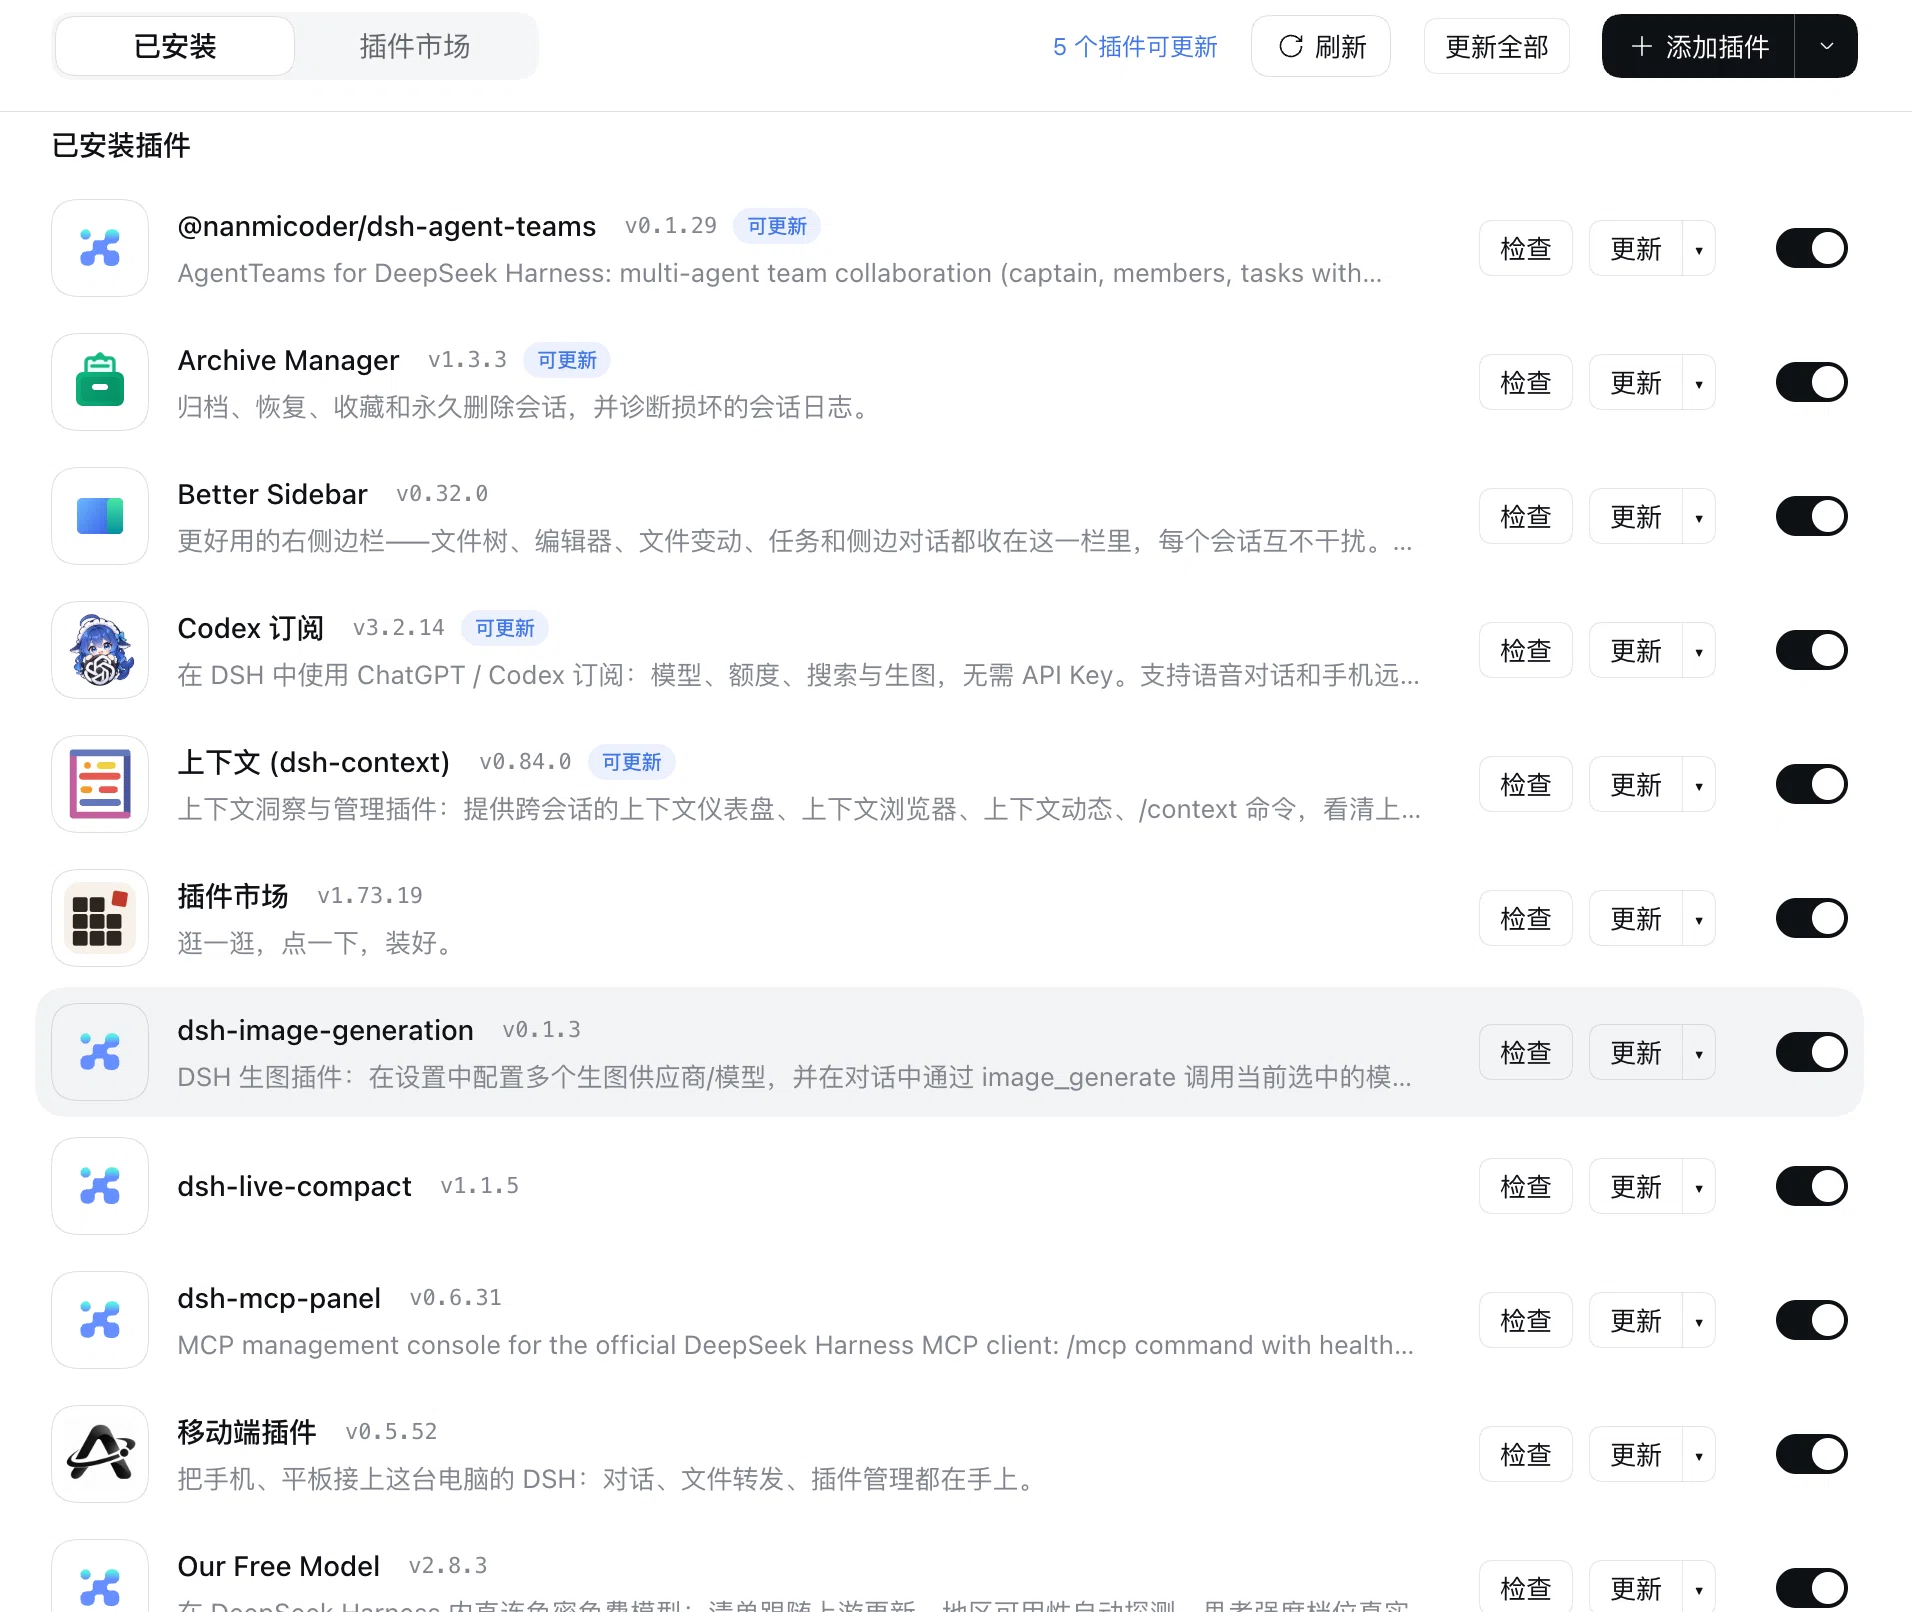
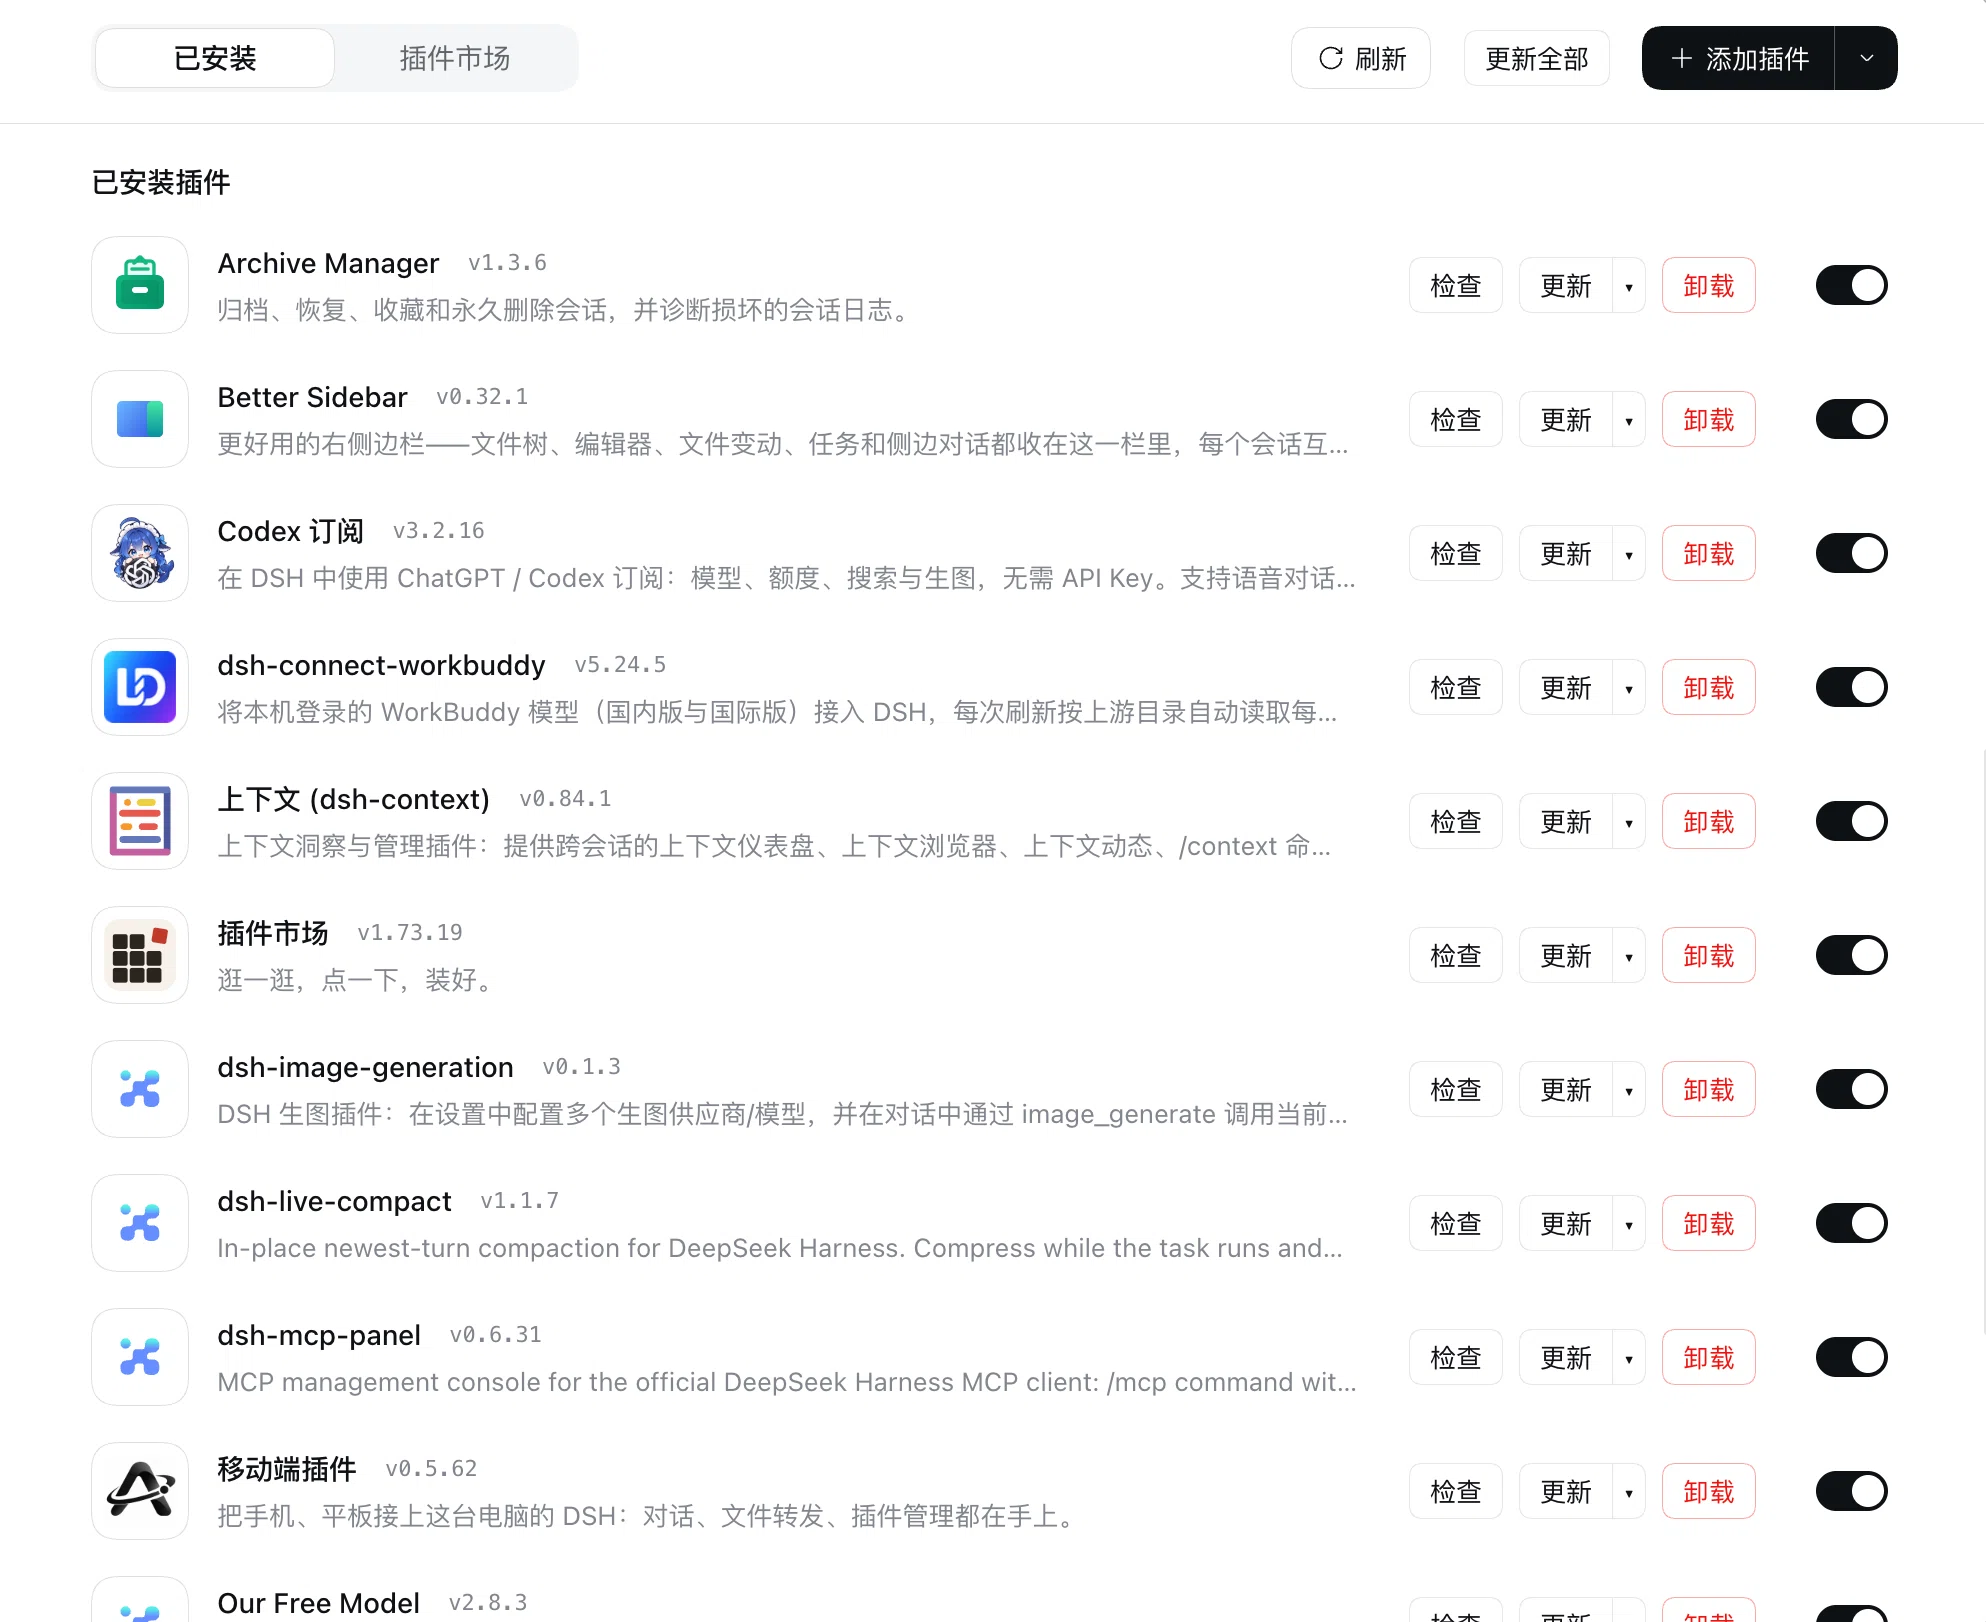
docs: use current UI screenshots (uninstall button, update-all in progress)

diff --git a/README.md b/README.md
@@ -2,9 +2,9 @@
 
 在 DeepSeek Harness 的「插件 → 已安装」列表里，给每个插件直接配上 **检查 / 更新 / 卸载**，不用再点进详情页；Git 安装的插件也能检查新提交。
 
-![已安装插件列表里的行内检查 / 更新 / 卸载](docs/screenshot-installed.webp)
+![已安装插件列表：每行的 检查 / 更新 ▾ / 卸载](docs/screenshot-installed.webp)
 
-> 截图取自开发中的版本；当前版本在「更新 ▾」右侧还多一个红色「卸载」按钮。
+![更新全部进行中：状态标签、更新中占位行与已更新行](docs/screenshot-update-all.webp)
 
 
 [English summary](#english)
@@ -20,7 +20,6 @@
 - **名字右侧状态标签**：`最新`（灰）/ `可更新`（蓝，页面没自己打标签时补位）/ `可更新但最新版不兼容当前版本 DSH`（黄，悬停给出所需依赖）。
 - **Git 源支持**：读 `pnpm-lock.yaml` 得到已安装 commit，用 `git ls-remote` 比对远端分支；更新时先卸载再装指定 commit，失败自动装回原 commit。GitHub 等 host 走自动探测的系统代理。
 
-  ![Git 源插件的行内状态与更新按钮](docs/screenshot-git-row.webp)
 - 更新期间该行会被同尺寸占位行顶住，不再"消失"。
 
 ## 安装
